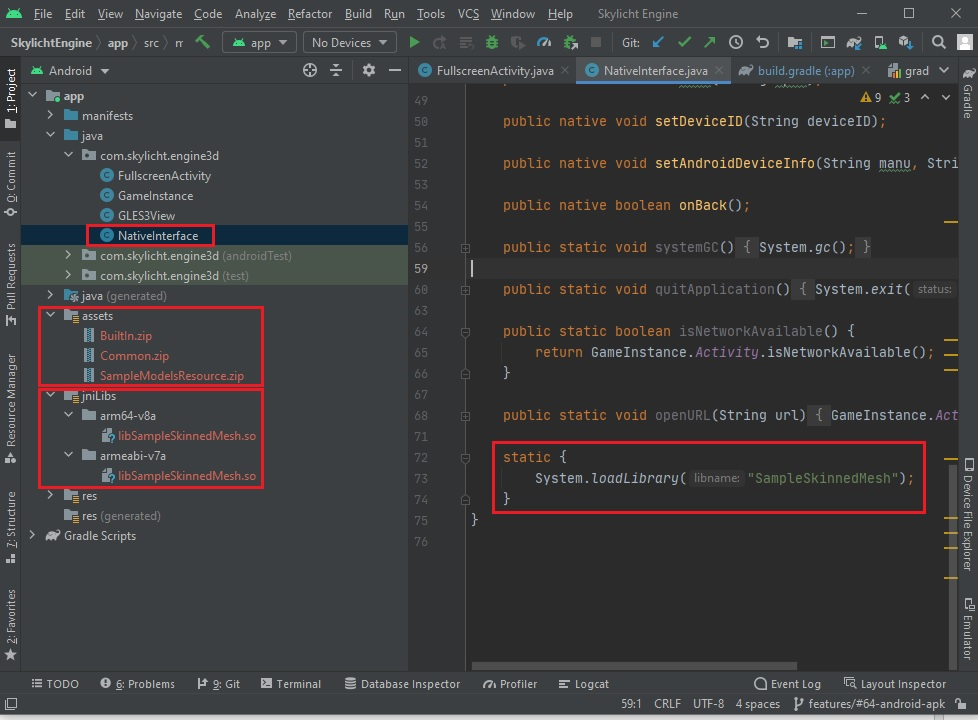
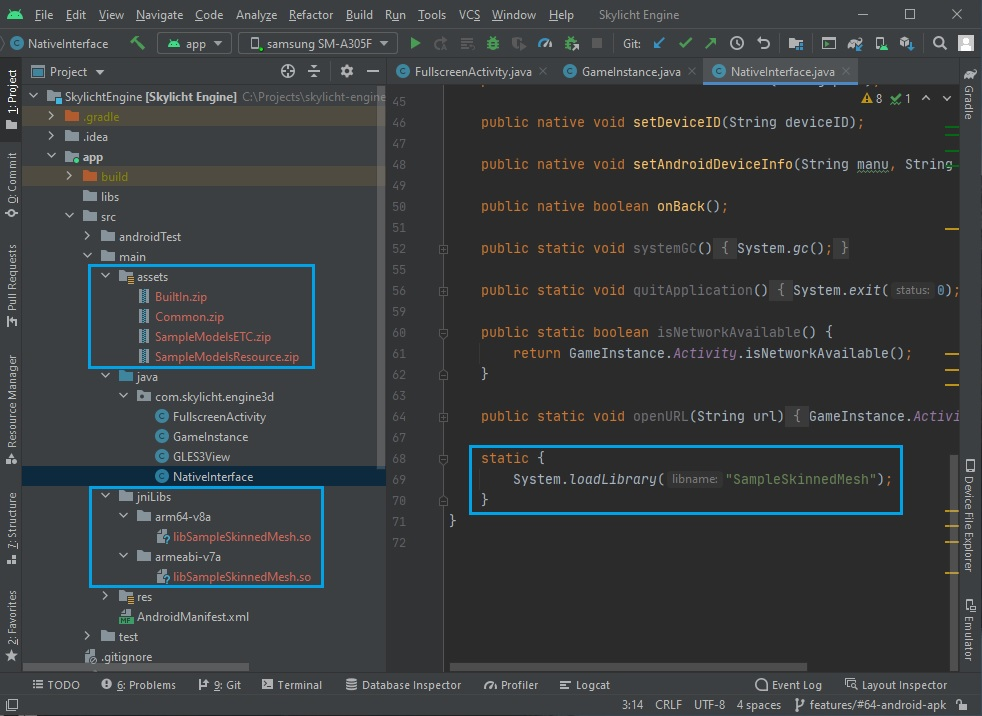
#64 Update document, build etc data

diff --git a/Assets/BuildAssetBundles.py b/Assets/BuildAssetBundles.py
@@ -9,7 +9,7 @@ compressExt = ["xml", "ttf", "otf", "txt",
 compressResourceModel = ["dae", "obj", "mtl"]
 compressTextureDDSExt = ["dds"]
 compressTexturePVRExt = ["pvr"]
-compressTextureETCExt = ["etc"]
+compressTextureETCExt = ["etc2"]
 
 
 def needCompress(filename):

diff --git a/README.md b/README.md
@@ -108,8 +108,8 @@ Skylicht Engine is a super lightweight Game Engine that targets mobile platforms
 - Install [Android NDK](https://developer.android.com/ndk/downloads)
 
 ##### How to build
-**Step 1: Build Native SDK**
-- Open **BuildCommand/BuildAndroidNDK.cmd** and update your path **MINGW** and **NDK**
+###### **Step 1: Build native library**
+- Open **BuildCommand/BuildAndroidNDK.cmd** by text editor and update your path **MINGW** and **NDK**
 
 ```code
 # BuildAndroidNDK.cmd
@@ -121,9 +121,9 @@ set NDK=C:\SDK\android-ndk-r21e
 - Run **BuildCommand/BuildAndroidNDK.cmd** to build Android Native Library
 - More details about **cmake android ndk**, [please read here](https://developer.android.com/ndk/guides/cmake)
 
-**Step 2: Copy Native Library to Gradle (Android) Project**
+###### **Step 2: Copy native library to Gradle Project**
 ```console
-# Make folder for jniLibs for Android Studio Project
+# Make folder jniLibs on Android Project
 C:\skylicht-engine>mkdir Projects\Android\SkylichtEngine\app\src\main\jniLibs\armeabi-v7a
 C:\skylicht-engine>mkdir Projects\Android\SkylichtEngine\app\src\main\jniLibs\arm64-v8a
 
@@ -134,8 +134,9 @@ C:\skylicht-engine>copy Bin\Android\Libs\armeabi-v7a\libSampleSkinnedMesh.so Pro
 ```
 - More details about **Link Gradle to your native library**, [please read here](https://developer.android.com/studio/projects/gradle-external-native-builds)
 
-**Step 3: Copy Resource to Gradle (Android) Project**
+###### **Step 3: Copy Resource to Gradle (Android) Project**
 ```console
+C:\skylicht-engine\Assets>python BuildTextureCompressETC.py
 C:\skylicht-engine\Assets>python BuildAssetBundles.py
 C:\skylicht-engine\Assets>cd..
 
@@ -150,11 +151,11 @@ C:\skylicht-engine>copy Bin\BuiltIn.zip Projects\Android\SkylichtEngine\app\src\
 C:\skylicht-engine>copy Bin\Common.zip Projects\Android\SkylichtEngine\app\src\main\assets
 C:\skylicht-engine>copy Bin\SampleModelsResource.zip Projects\Android\SkylichtEngine\app\src\main\assets
 
-# Dont forget copy ETC texture for Android
+# Dont forget copy ETC texture
 C:\skylicht-engine>copy Bin\SampleModelsETC.zip Projects\Android\SkylichtEngine\app\src\main\assets
 ```
 
-**Step 4: Build APK by Android Studio or Gradle**
+###### **Step 4: Build APK by Android Studio or Gradle**
 Open Android Studio and import project **C:\skylicht-engine\Projects\Android\SkylichtEngine**
 
 <img src="Documents/Media/Samples/android/android-studio.jpg"/>
